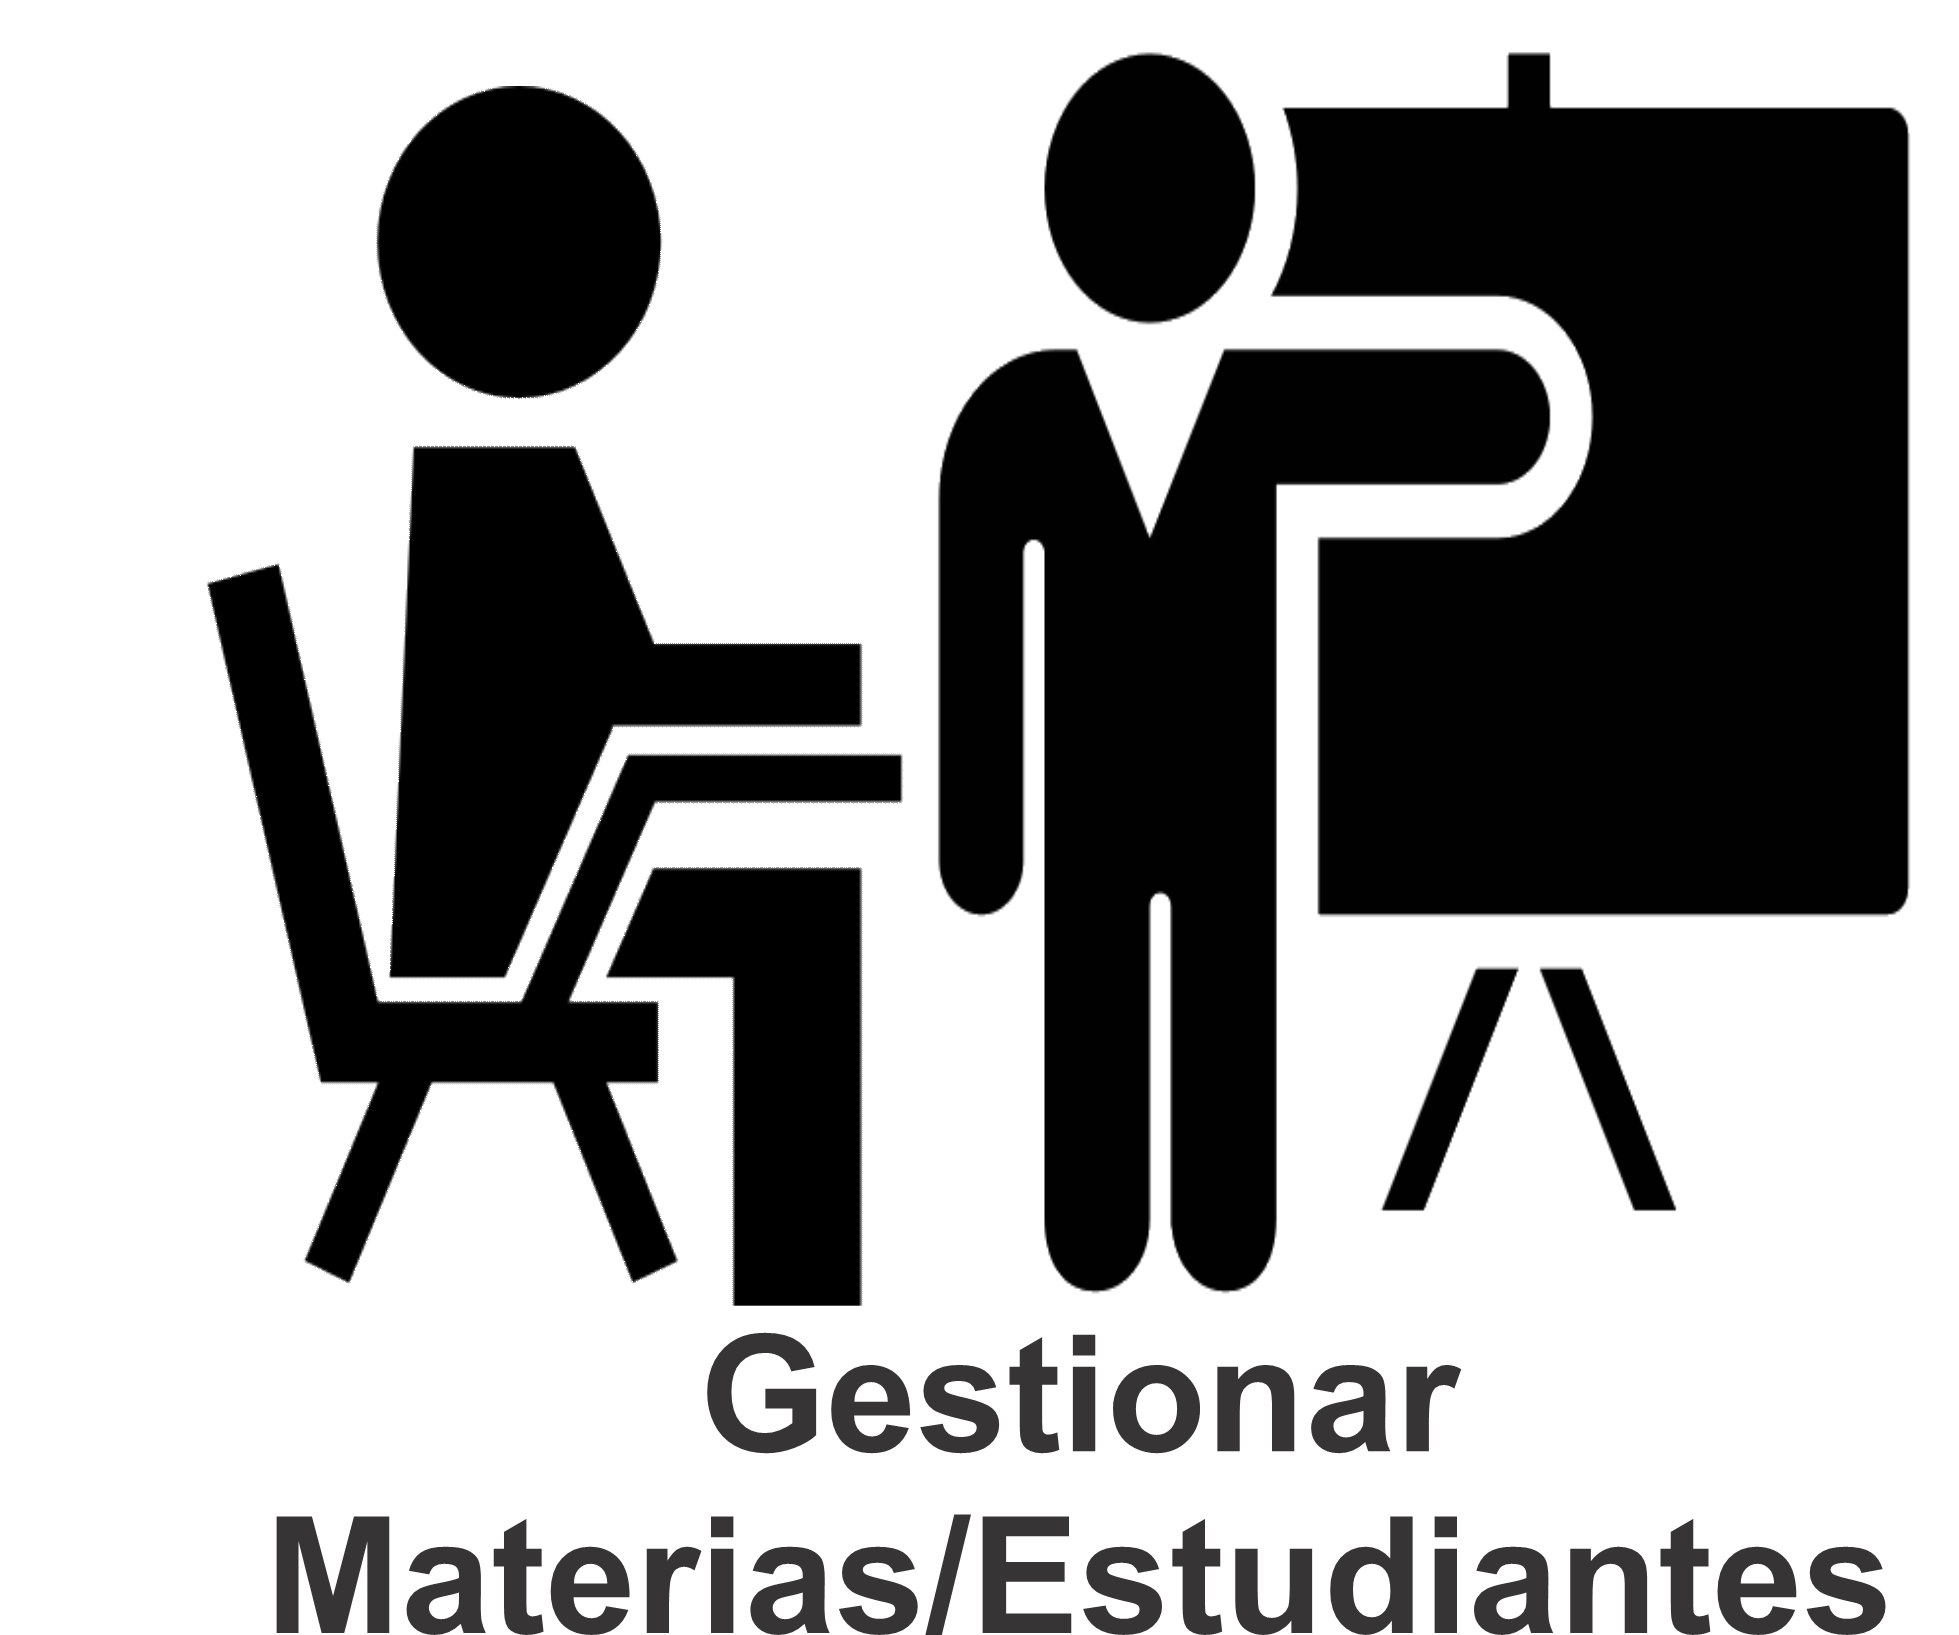
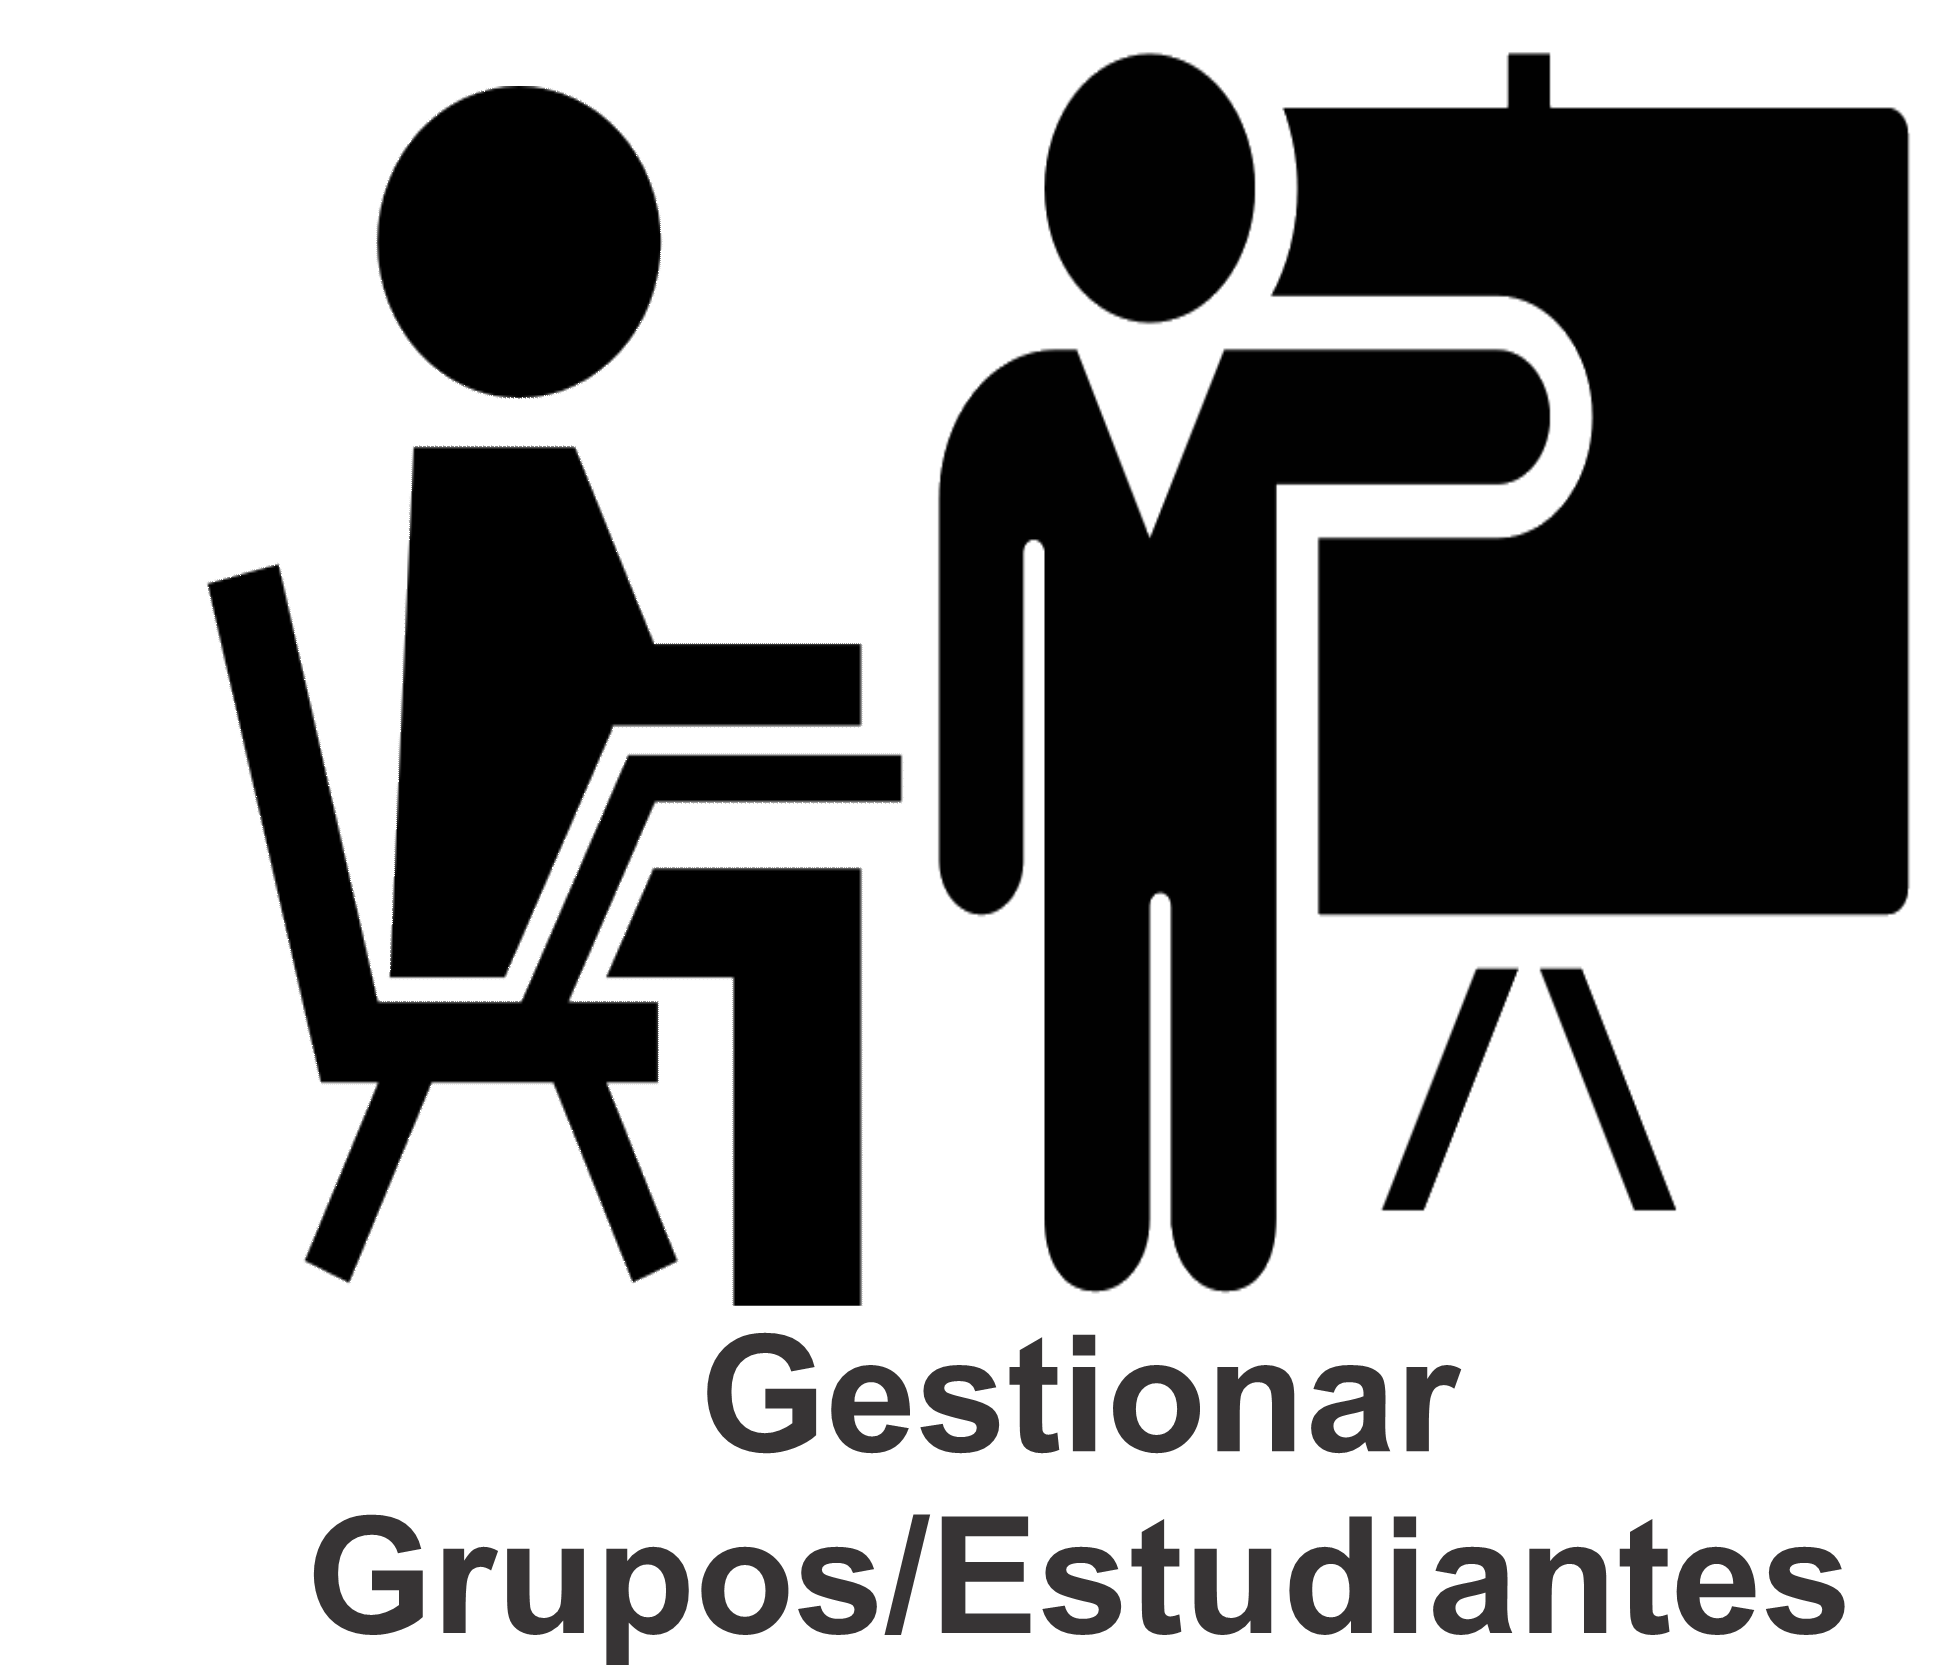
Mejoras en las interfaces y optimizacion de codigo en ClassG, menu y users-lessons

diff --git a/src/app/components/users-lessons/users-lessons.component.ts b/src/app/components/users-lessons/users-lessons.component.ts
@@ -3,7 +3,6 @@ import { MatPaginator, MatSort, MatTableDataSource, MatDialog, MatSnackBar } fro
 import { APIService } from 'src/app/services/api/api.service';
 import { User } from 'src/app/models/User.model';
 import { Subject } from 'src/app/models/Subject.model';
-import { AddSubjectComponent } from 'src/app/dialogs/add-subject/add-subject.component';
 import { AddStudentComponent } from 'src/app/dialogs/add-student/add-student.component';
 import { SelectionModel } from '@angular/cdk/collections';
 import { Router } from '@angular/router';
@@ -47,18 +46,7 @@ export class UsersLessonsComponent implements OnInit {
    * Arraeglo que contiene a todos los alumnos buscados
    */
   arrayStudents: Array<User>;
-  /**
-   * Arreglo que contiene todas las materias de los alumnos
-   */
-  arrayLessons: Array<Subject>;
-  
 
-
-
-  /**
-   * Indica si ya se buscaron materias  
-   */
-  materias: Boolean =false;
   /**
    * Indica si ya se buscaron estudiantes anteriormente
    */
@@ -79,19 +67,6 @@ export class UsersLessonsComponent implements OnInit {
    * Tabla donde estan los datos de los usuarios
    */
   dataSource: MatTableDataSource<User>;
-
-  /**
-   * Columnas a mostrar para las materias
-   */
-  displayedColumnsLessons: string[] = ['name','grade', 'deleted'];
-  
-  
-  /**
-   * Tabla donde estan los datos de los usuarios
-   */
-  dataSourceLessons: MatTableDataSource<Subject>;
-
-
 
 
   /**
@@ -117,10 +92,7 @@ export class UsersLessonsComponent implements OnInit {
   grades:Grade[] = [
     {value: '1', viewValue:"1°"},
     {value: '2', viewValue:"2°"},
-    {value: '3', viewValue:"3°"},
-    {value: '4', viewValue:"4°"},
-    {value: '5', viewValue:"5°"},
-    {value: '6', viewValue:"6°"}
+    {value: '3', viewValue:"3°"}
   ];
 
   /**
@@ -135,7 +107,11 @@ export class UsersLessonsComponent implements OnInit {
     {value: 'C', viewValue:"C"},
     {value: 'D', viewValue:"D"},
     {value: 'E', viewValue:"E"},
-    {value: 'F', viewValue:"F"}
+    {value: 'F', viewValue:"F"},
+    {value: 'E', viewValue:"G"},
+    {value: 'F', viewValue:"H"},
+    {value: 'E', viewValue:"I"},
+    {value: 'F', viewValue:"J"}
   ];
 
   
@@ -169,15 +145,6 @@ export class UsersLessonsComponent implements OnInit {
         grade:this.gradeSelected
       }
 
-      this.api.getSubjectsGrade(params).subscribe(response=>{
-        this.materias=true
-        this.arrayLessons=response as Array<Subject>
-        // console.log(this.arrayLessons)
-        // console.log("users")
-        this.dataSourceLessons = new MatTableDataSource(this.arrayLessons);
-        this.dataSourceLessons.paginator = this.paginator.first;
-        this.dataSourceLessons.sort = this.sort.first;
-      });
     }
 
     if (this.gradeSelected != null && this.groupSelected != null) {
@@ -210,74 +177,6 @@ export class UsersLessonsComponent implements OnInit {
     if (this.dataSource.paginator) {
       this.dataSource.paginator.firstPage();
     }
-  }
-  /**
-   * Metodo que elimina una materia 
-   * @param row Matetria qu recibe como parametro para eliminar
-   */
-  deleted(row:Subject){
-    row.deleted=true;
-    this.api.updateSubject(row).subscribe(response=>{
-      // console.log(response);
-      let params={
-        grade:this.gradeSelected
-      }
-  
-      this.api.getSubjectsGrade(params).subscribe(response=>{
-        this.materias=true
-        this.arrayLessons=response as Array<Subject>
-        this.dataSourceLessons = new MatTableDataSource(this.arrayLessons);
-        this.dataSourceLessons.paginator = this.paginator.first;
-        this.dataSourceLessons.sort = this.sort.first;
-      });
-    })
-    
-  }
-  /**
-   * Metodo que filtra la busqueda de materias
-   * @param filterValue Valor a filtrar para la busqueda de materias
-   */
-  applyFilterLesson(filterValue: string) {
-    this.dataSourceLessons.filter = filterValue.trim().toLowerCase();
-
-    if (this.dataSourceLessons.paginator) {
-      this.dataSourceLessons.paginator.firstPage();
-    }
-  }
-
-  /**
-   * Metodo para añadir una nueva materia abre un dialog
-   */
-  addSubject(){
-    const dialogRef = this.dialog.open(AddSubjectComponent,{
-      data: {
-        grade: this.gradeSelected,
-        group:this.groupSelected,
-      }
-    });
-    dialogRef.afterClosed().subscribe(response=>{
-        if(response){
-          let subject:Subject= new Subject(response.materia, response.grado, response.profesor, false, 1 );
-          this.api.addSubject(subject).subscribe(response=>{
-            if(response){
-              let params={ 
-                grade:this.gradeSelected
-              }
-          
-              this.api.getSubjectsGrade(params).subscribe(response=>{
-                this.materias=true
-                this.arrayLessons=response as Array<any>
-                /**MOSTRAR NOTIFICACION */
-                this.dataSourceLessons = new MatTableDataSource(this.arrayLessons);
-                this.dataSourceLessons.paginator = this.paginator.first;
-                this.dataSourceLessons.sort = this.sort.first;
-              });
-            }
-          })
-          
-        } 
-           
-    })
   }
 
   /**

diff --git a/src/app/components/class-g/class-g.component.ts b/src/app/components/class-g/class-g.component.ts
@@ -103,11 +103,6 @@ export class ClassGComponent implements OnInit {
   /**
    * Contiene el valor del grupo seleccionado
    */
-  groupSelected:String
-
-  /**
-   * Contiene el valor del grupo seleccionado
-   */
   profeSelected:String
   /**
    *  Propiedad que sirve para tener los grados de los alumnos
@@ -118,28 +113,9 @@ export class ClassGComponent implements OnInit {
   grades:Grade[] = [
     {value: '1', viewValue:"1°"},
     {value: '2', viewValue:"2°"},
-    {value: '3', viewValue:"3°"},
-    {value: '4', viewValue:"4°"},
-    {value: '5', viewValue:"5°"},
-    {value: '6', viewValue:"6°"}
+    {value: '3', viewValue:"3°"}
   ];
-
-  /**
-   * Propiedad que indica 
-   * @param value es el valor que tendra como tal la seleccion 
-   * @param viewValue es el valor que que se muestra para la seleccion 
-   * 
-   */
-  groups:Group[] = [
-    {value: 'A', viewValue:"A"},
-    {value: 'B', viewValue:"B"},
-    {value: 'C', viewValue:"C"},
-    {value: 'D', viewValue:"D"},
-    {value: 'E', viewValue:"E"},
-    {value: 'F', viewValue:"F"}
-  ];
-
-  
+ 
 
   @ViewChildren(MatPaginator, ) paginator:QueryList<MatPaginator>;
   @ViewChildren(MatSort)  sort:QueryList< MatSort>;
@@ -220,13 +196,21 @@ export class ClassGComponent implements OnInit {
   addSubject(){
     const dialogRef = this.dialog.open(AddSubjectComponent,{
       data: {
-        grade: this.gradeSelected,
-        group:this.groupSelected,
+        grade: this.gradeSelected
       }
     });
     dialogRef.afterClosed().subscribe(response=>{
         if(response){
           let subject:Subject= new Subject(response.materia, response.grado, response.profesor, false, 1 );
+
+          //añadiendo a Firebase la nueva materia
+          let classGData = {
+            subject: response.materia,
+            grade: response.grado,
+            professor: response.profesor,
+          }
+          this.firebase.addSubject(classGData);
+
           this.api.addSubject(subject).subscribe(response=>{
             if(response){
               let params={ 

diff --git a/src/app/components/class-g/class-g.component.html b/src/app/components/class-g/class-g.component.html
@@ -8,20 +8,11 @@
     <br><br>
     <div class="row centrado">
         <mat-toolbar-row>
-            <mat-form-field style="font-size: 14px; margin-left: 0%;">
+            <mat-form-field id="selectorGrade">
                 <mat-label>Grado</mat-label>
                 <mat-select (selectionChange)="searchSubjects()" [(ngModel)]="gradeSelected">
                     <mat-option *ngFor="let grade of grades" [value]="grade.value">
                         {{grade.viewValue}}
-                    </mat-option>
-                </mat-select>
-            </mat-form-field>
-
-            <mat-form-field style=" font-size: 14px; margin-right: 0%;">
-                <mat-label>Grupo</mat-label>
-                <mat-select [(ngModel)]="groupSelected">
-                    <mat-option *ngFor="let group of groups" [value]="group.value">
-                        {{group.viewValue}}
                     </mat-option>
                 </mat-select>
             </mat-form-field>

diff --git a/src/app/components/users-lessons/users-lessons.component.html b/src/app/components/users-lessons/users-lessons.component.html
@@ -4,7 +4,7 @@
 
     <!--Buscador-->
     <br><br><br>
-    <h2 class="title">Gestionar Materias y Alumnos</h2>
+    <h2 class="title">Gestionar Grupos y Estudiantes</h2>
     <br><br>
     <div class="row centrado">
         <mat-toolbar-row>
@@ -34,13 +34,9 @@
         <input matInput (keyup)="applyFilter($event.target.value)" placeholder="Filter">
     </mat-form-field>
 
-
     <br>
-    <!--Tabla de materias-->
+
     <div class="row containerTables">
-
-
-
         <!-- tabla de alumnos -->
         <div class="example-container">
             <h3 style="text-align: center;">Alumnos</h3>

diff --git a/src/app/components/menu/menu.component.css b/src/app/components/menu/menu.component.css
@@ -16,6 +16,7 @@
 .background_menu {
     width: 100%;
     height: 88%;
+    margin-bottom: 3%;
 }
 
 img {
@@ -151,4 +152,10 @@ img:hover {
 
 #avisosI {
     margin-left: 10%;
+}
+
+.foot {
+    position: fixed;
+    bottom: 0;
+    z-index: 999999;
 }

diff --git a/src/app/components/class-g/class-g.component.css b/src/app/components/class-g/class-g.component.css
@@ -21,6 +21,12 @@
     /* text-align: center; */
 }
 
+#selectorGrade {
+    font-size: 14px;
+    margin-left: auto;
+    margin-right: auto;
+}
+
 .mat-paginator {
     font-size: 14px;
     width: 100%;

diff --git a/src/app/services/firebase/firebase.service.ts b/src/app/services/firebase/firebase.service.ts
@@ -71,6 +71,10 @@ export class FirebaseService {
       return false;
     }
 
+    addSubject(data){
+
+    }
+
     /**
      * Funcion para actualizar calificaciones
      */

diff --git a/src/app/components/menu/menu.component.html b/src/app/components/menu/menu.component.html
@@ -79,5 +79,7 @@
 
     </div>
 
-    <app-abc></app-abc>
+    <div class="foot">
+        <app-abc></app-abc>
+    </div>
 </div>
